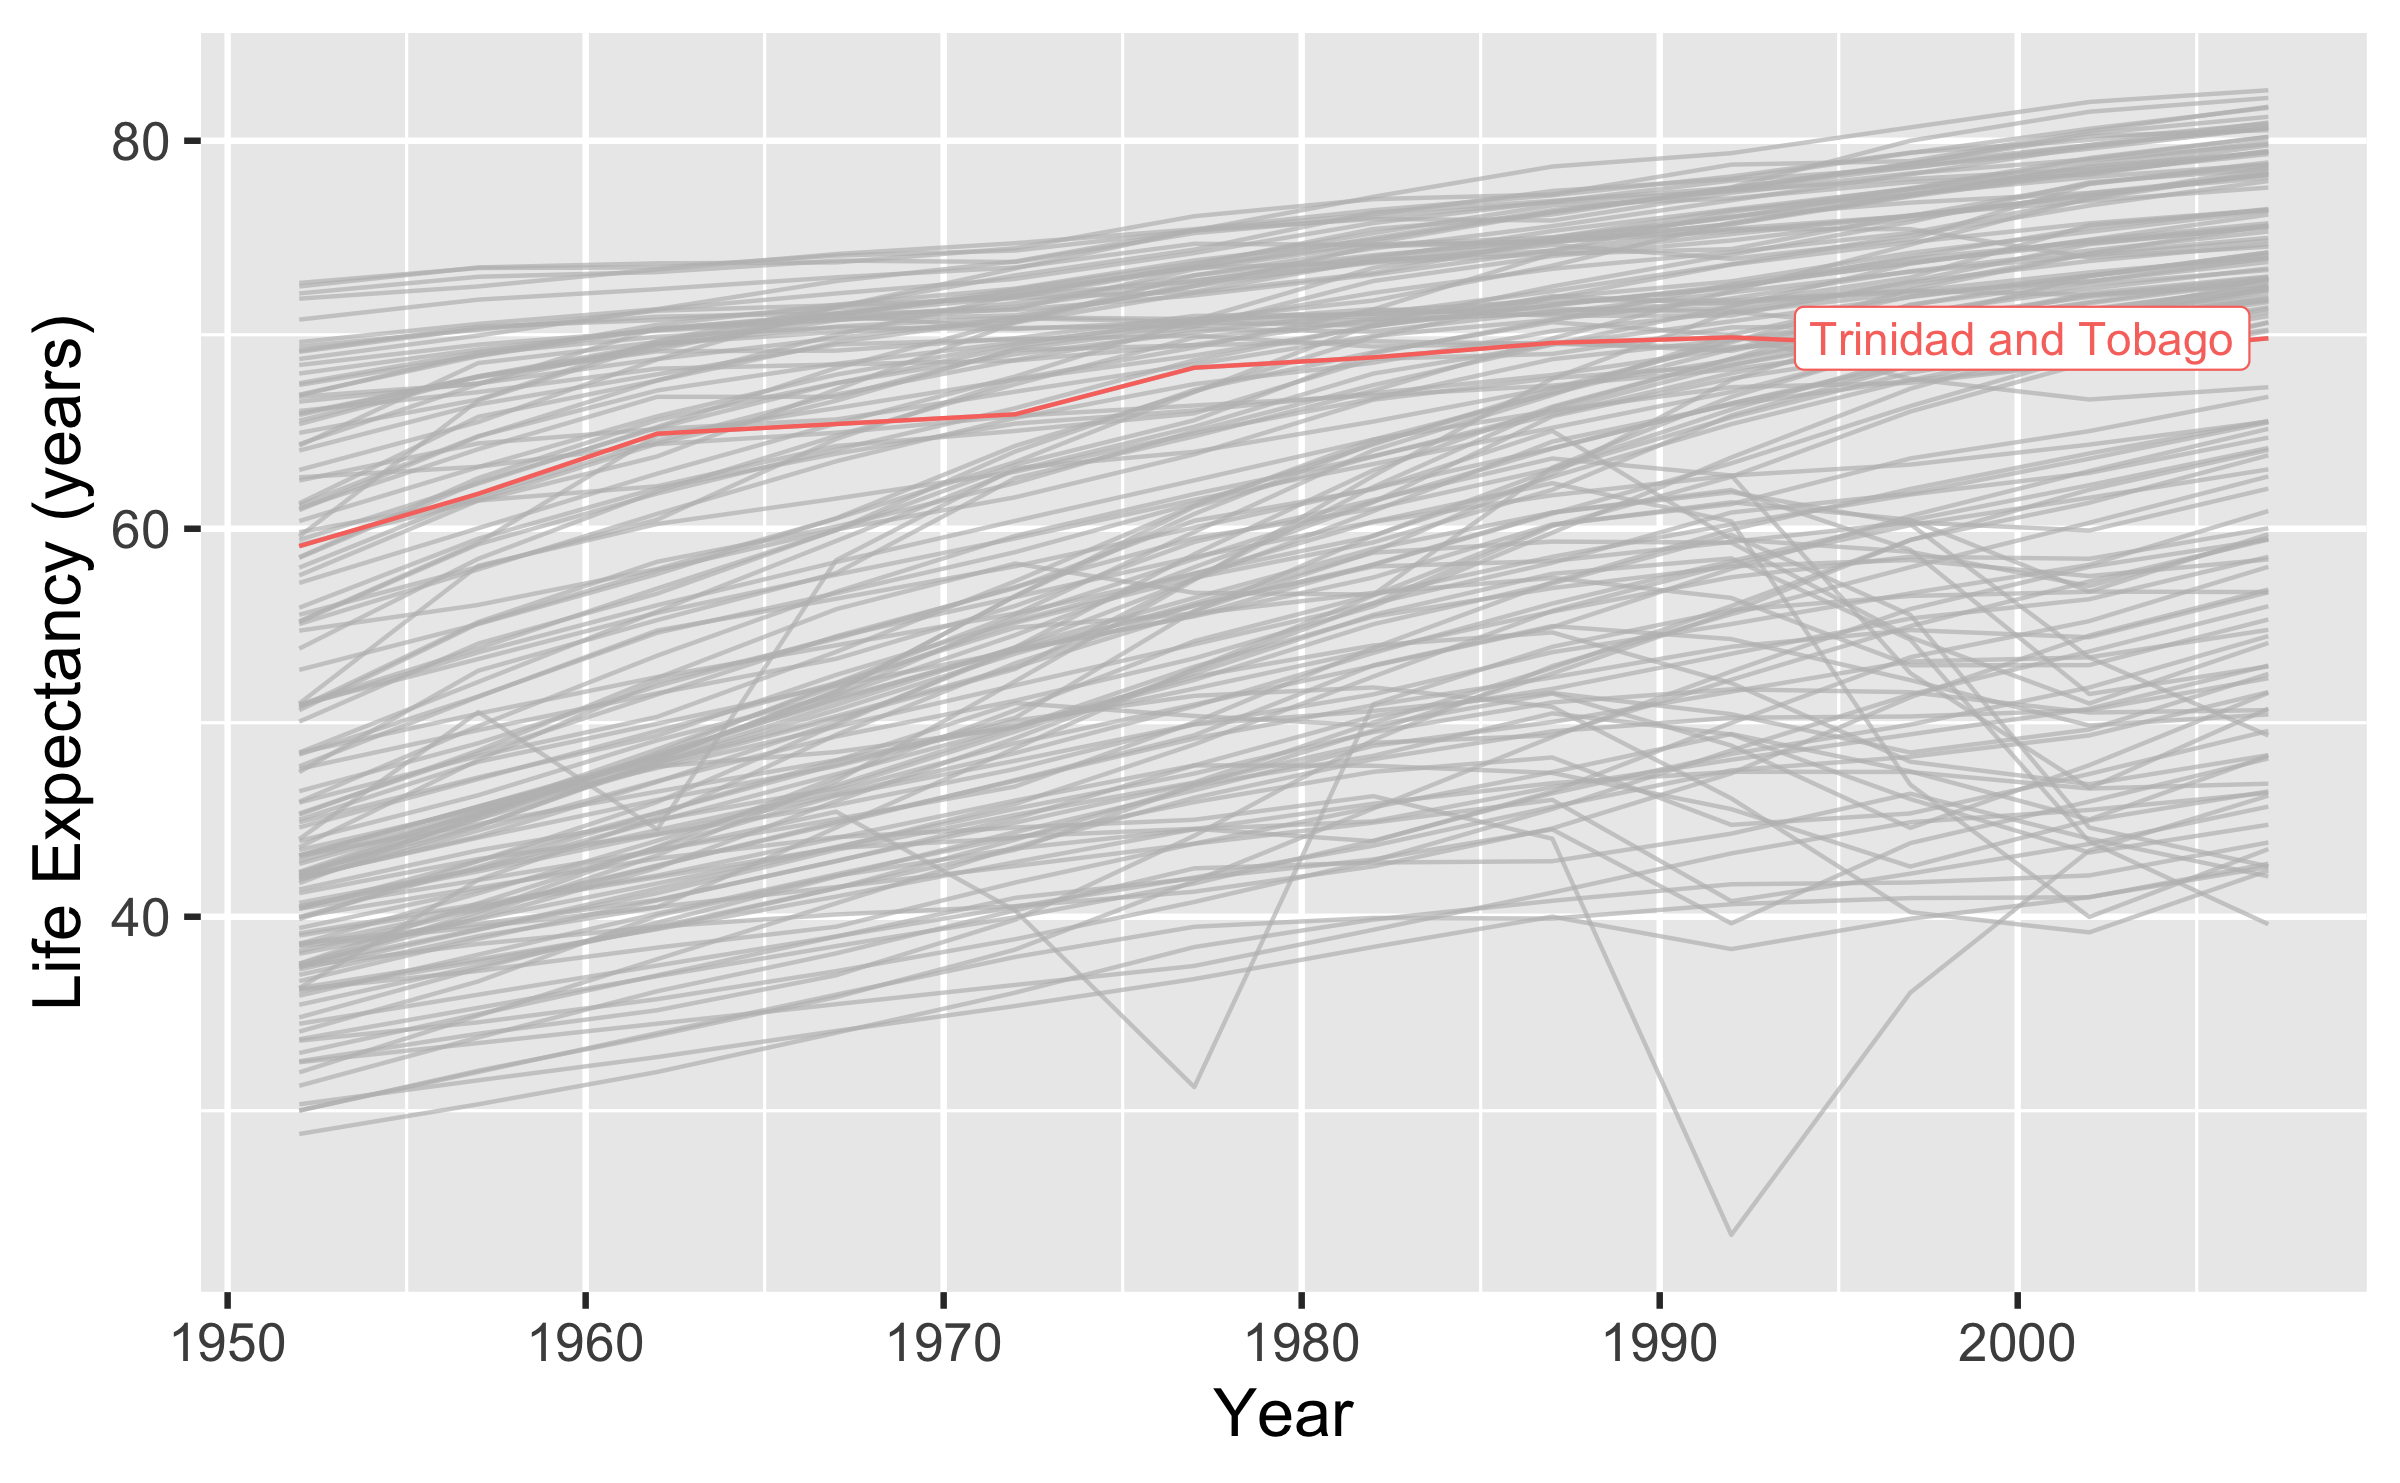
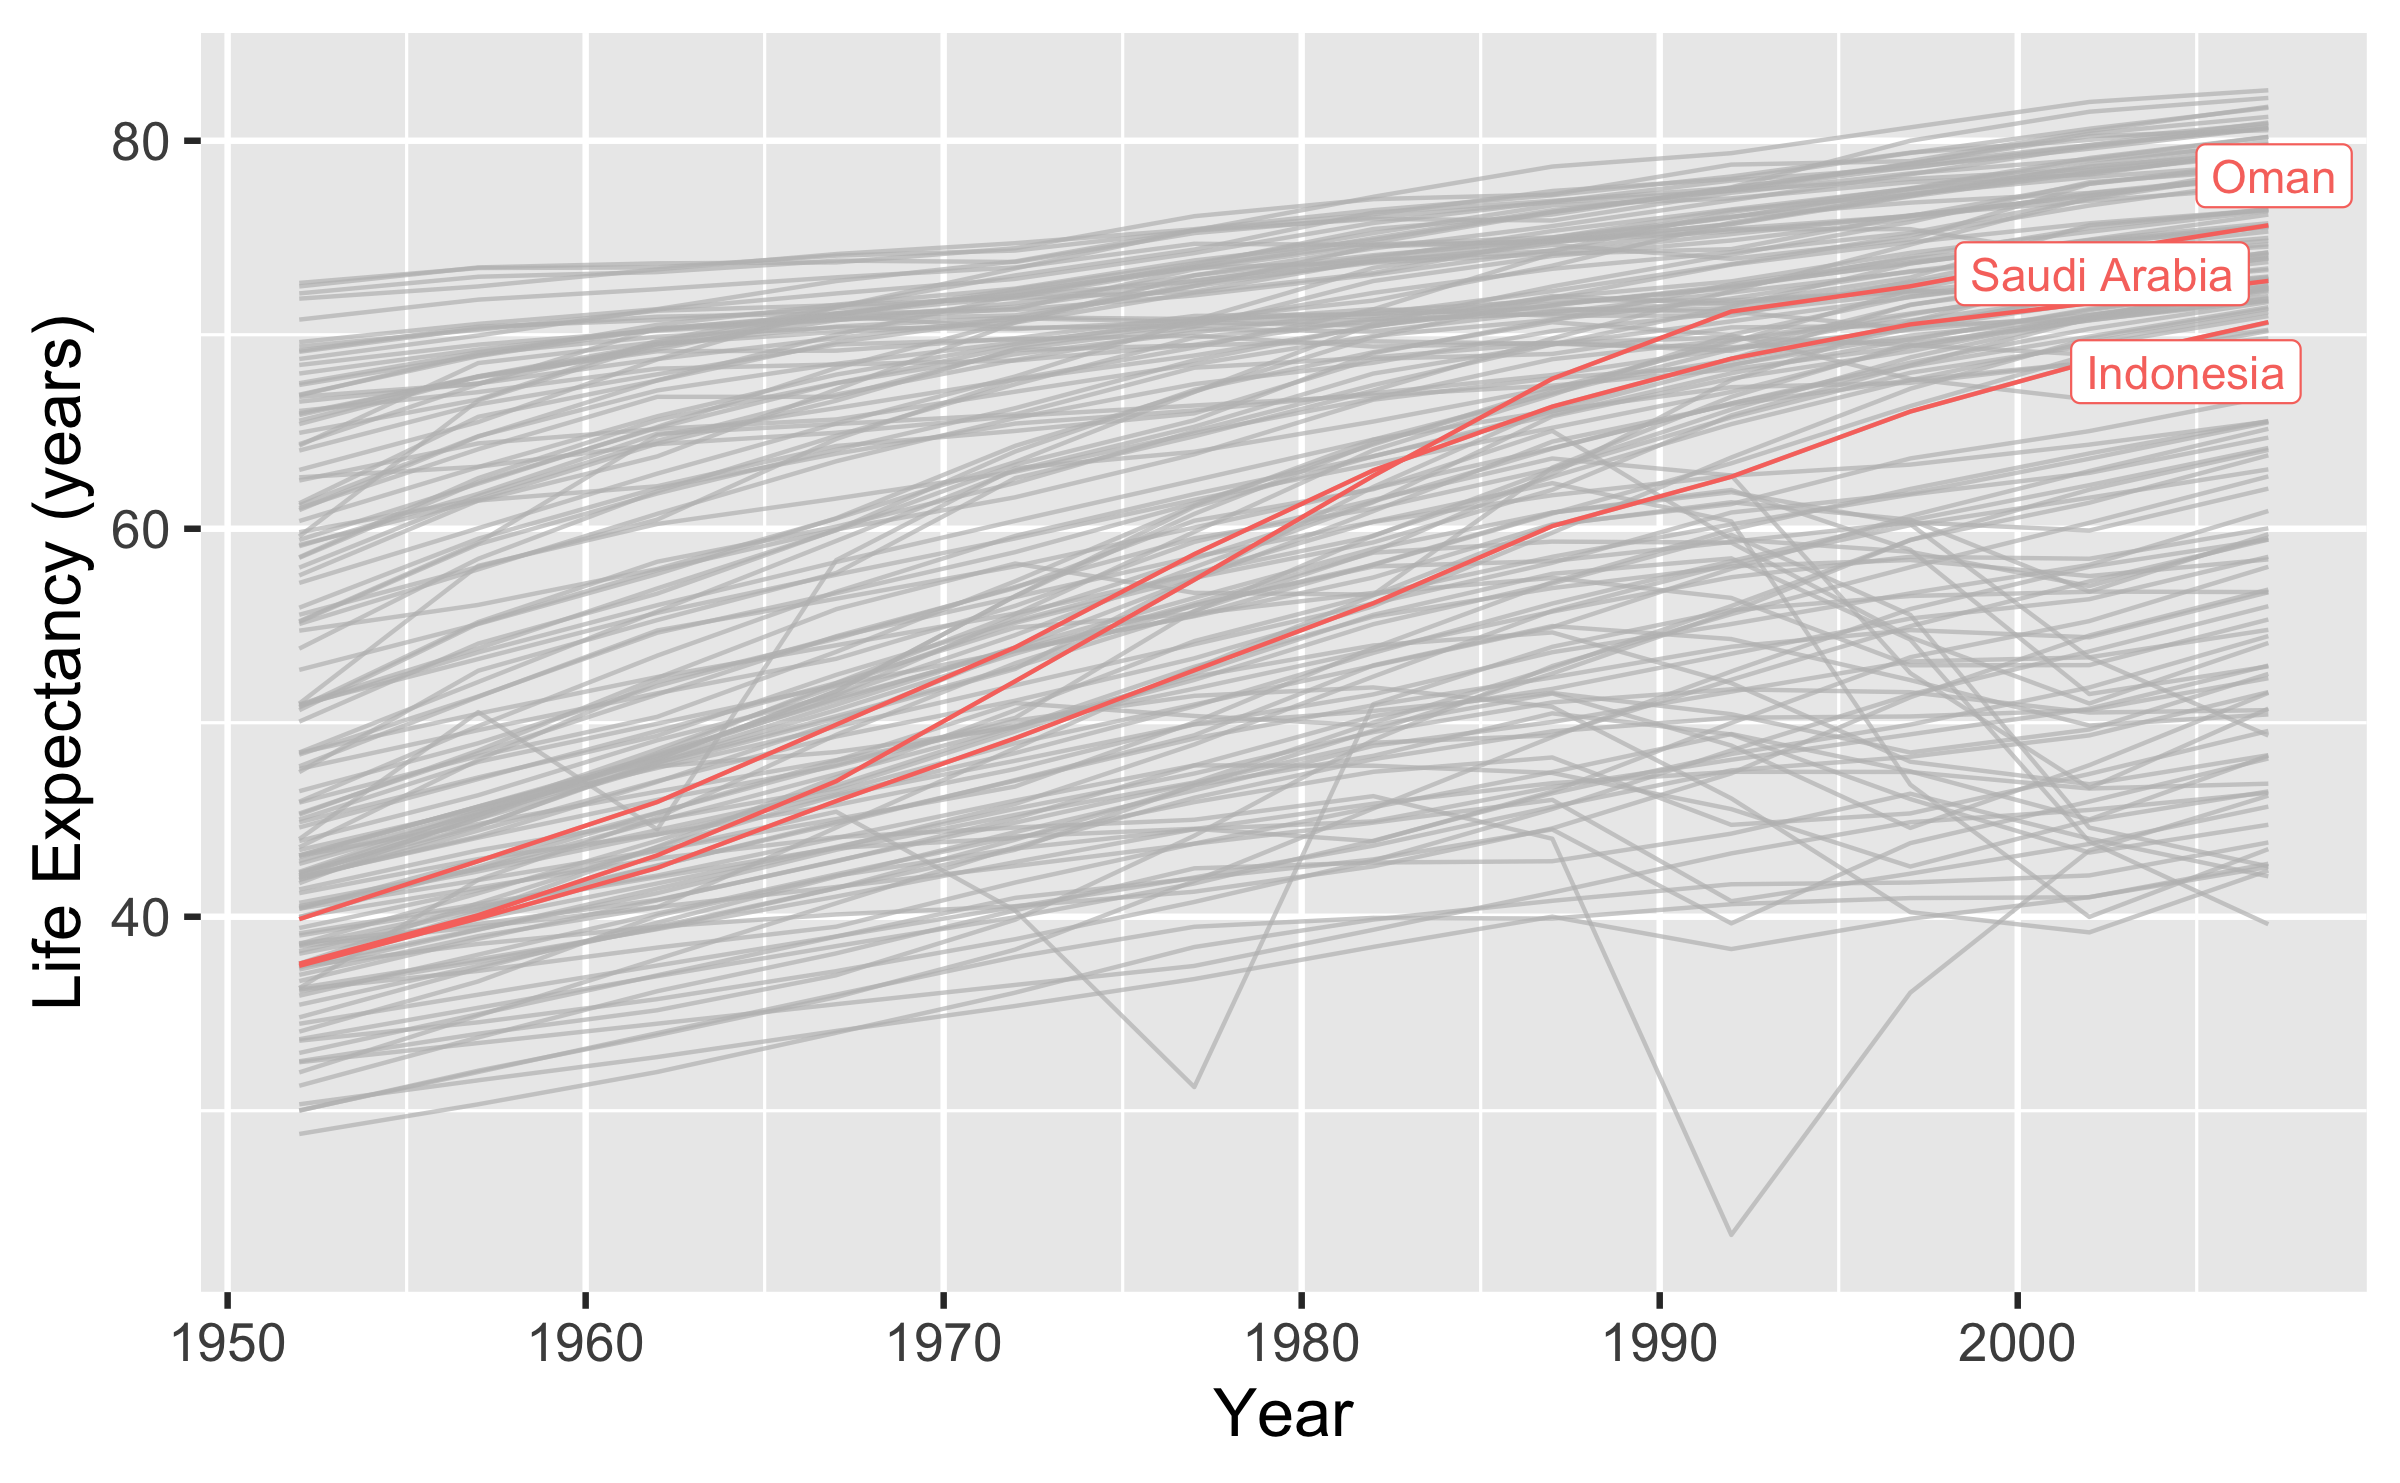
Update final slide

diff --git a/course-materials/slides/u5-d10-axes-themes/u5-d10-axes-themes.html b/course-materials/slides/u5-d10-axes-themes/u5-d10-axes-themes.html
@@ -568,7 +568,7 @@ ggplot(aes(x = year,
   geom_line() +
   labs(x = "Year",
        y = "Life Expectancy (years)") +
-  gghighlight(min(lifeExp) &gt; 55 &amp; max(lifeExp) &lt; 70)
+  gghighlight(min(lifeExp) &lt; 40 &amp; max(lifeExp) &gt; 70)
 ```
 
 
